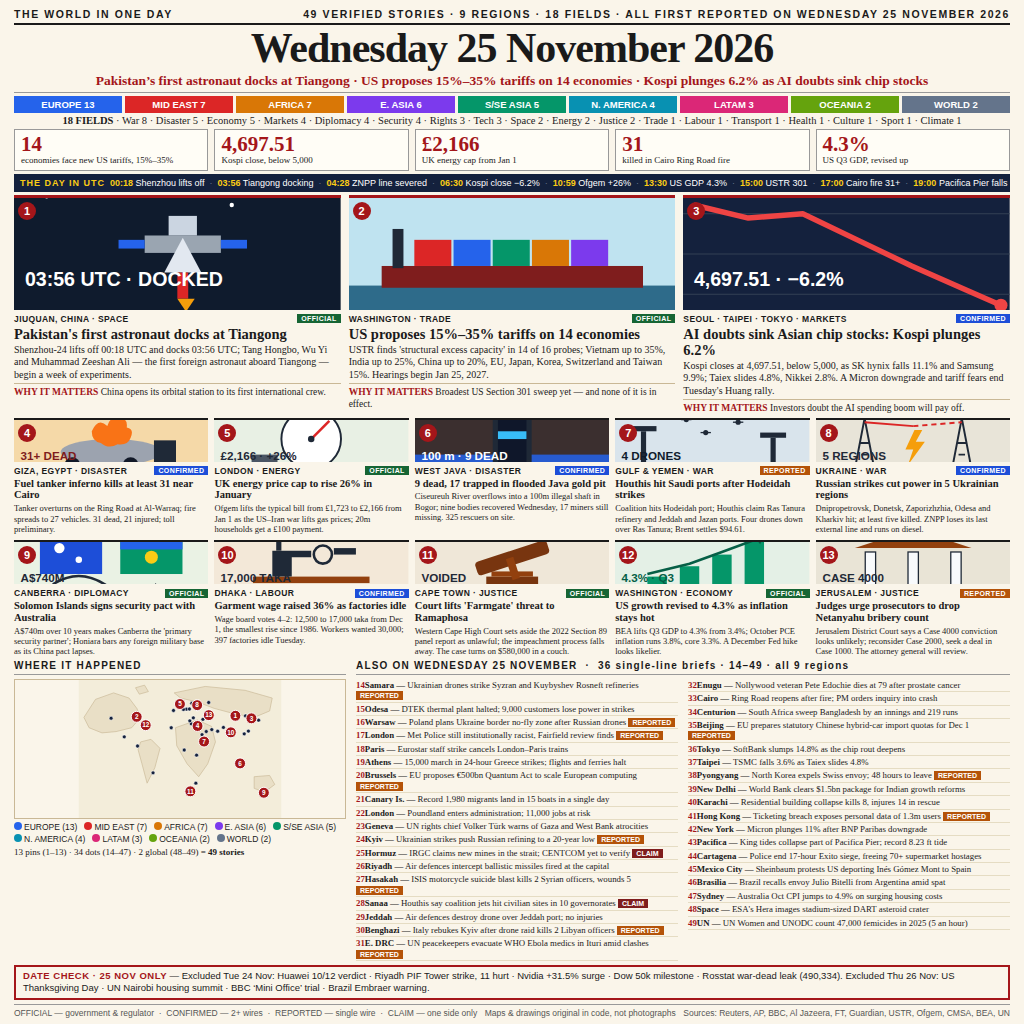
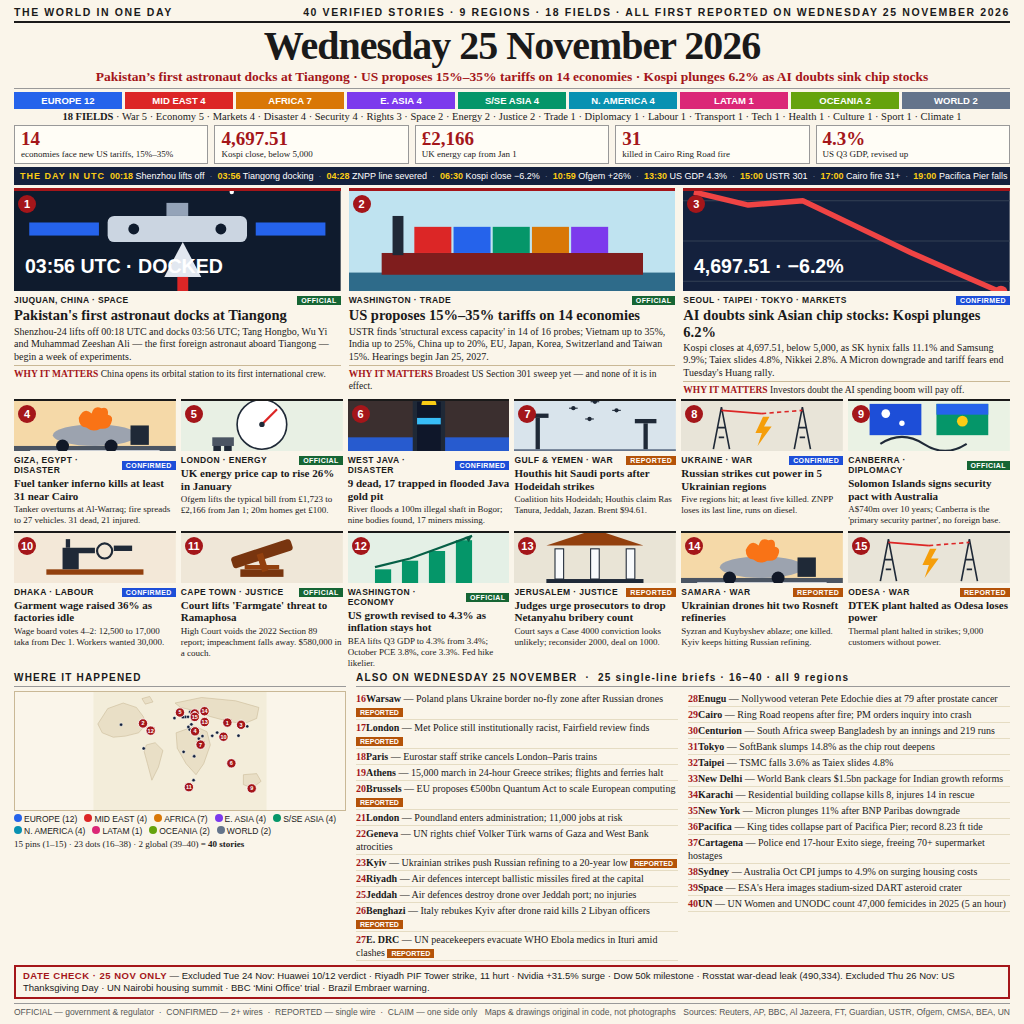
The World in One Day — Wednesday 25 November 2026 (v2: 40 stories, 12 secondary cards)

diff --git a/README.md b/README.md
@@ -4,9 +4,9 @@
 [![rank](https://make.fun/badge/news-image-20261125/adjiadjo/news-image-20261125/rank.svg)](https://make.fun/bounty/news-image-20261125/leaderboard?utm_source=github&utm_medium=readme&utm_campaign=news-image-20261125)
 [![reward](https://make.fun/badge/news-image-20261125/adjiadjo/news-image-20261125/reward.svg)](https://make.fun/bounty/news-image-20261125?utm_source=github&utm_medium=readme&utm_campaign=news-image-20261125)
 
-The World in One Day — Wednesday 25 November 2026: a front-page image summing up the world's news of Wednesday 25 November 2026, 49 stories across 9 regions and 18 fields, with a numbers strip, a full-day UTC timeline, three lead stories, ten secondary stories, 36 more in a digest, a schematic map, and a date-check footer. Pakistan's first astronaut docks at Tiangong, the US proposes 15%–35% tariffs on 14 economies, and the Kospi plunges 6.2% as AI doubts sink Asian chip stocks.
+The World in One Day — Wednesday 25 November 2026: a front-page image summing up the world's news of Wednesday 25 November 2026, 40 stories across 9 regions and 18 fields, with a numbers strip, a full-day UTC timeline, three lead stories, twelve secondary stories, 25 more in a digest, a schematic map, and a date-check footer. Pakistan's first astronaut docks at Tiangong, the US proposes 15%–35% tariffs on 14 economies, and the Kospi plunges 6.2% as AI doubts sink Asian chip stocks.
 
-The image is drawn in code by `generate.mjs` (Node, no dependencies) from a 49-story data table: every story was checked against live reporting for Wednesday 25 November 2026, with its region, field, dateline, and certainty tag. `main.ts` (Node 22, standard library only) validates the finished 1024×1024 PNG — signature, IHDR size, chunk framing, IEND, at most 1 MiB — and copies it to `/output/entry.png`, so grading needs no network and no third-party packages. `verify.mjs` re-checks the story counts, region and field sums, map math, and image size locally.
+The image is drawn in code by `generate.mjs` (Node, no dependencies) from a 40-story data table: every story was checked against live reporting for Wednesday 25 November 2026, with its region, field, dateline, and certainty tag. `main.ts` (Node 22, standard library only) validates the finished 1024×1024 PNG — signature, IHDR size, chunk framing, IEND, at most 1 MiB — and copies it to `/output/entry.png`, so grading needs no network and no third-party packages. `verify.mjs` re-checks the story counts, region and field sums, map math, and image size locally.
 
 Every lead and secondary story is tagged OFFICIAL / CONFIRMED / REPORTED / CLAIM, with its source named. The date-check footer lists what was left out because it was earlier or later days' news, not Wednesday 25 November's — including the Huawei verdict of 24 November and the Rosstat war-dead leak first reported on 23 November.
 
